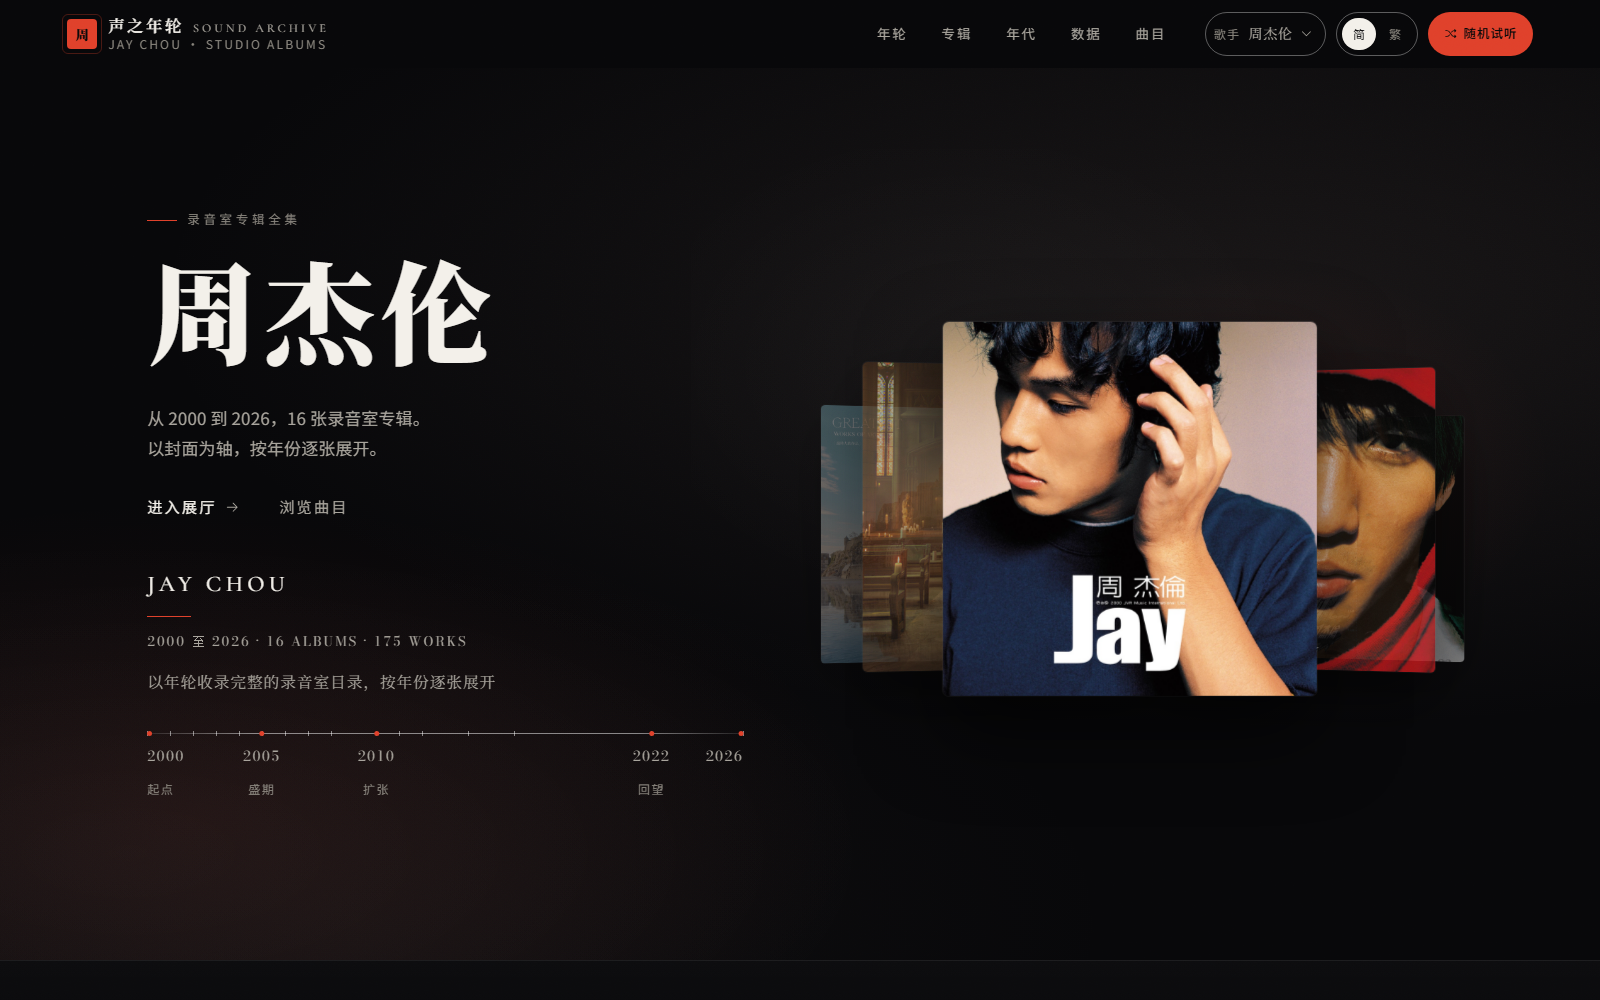
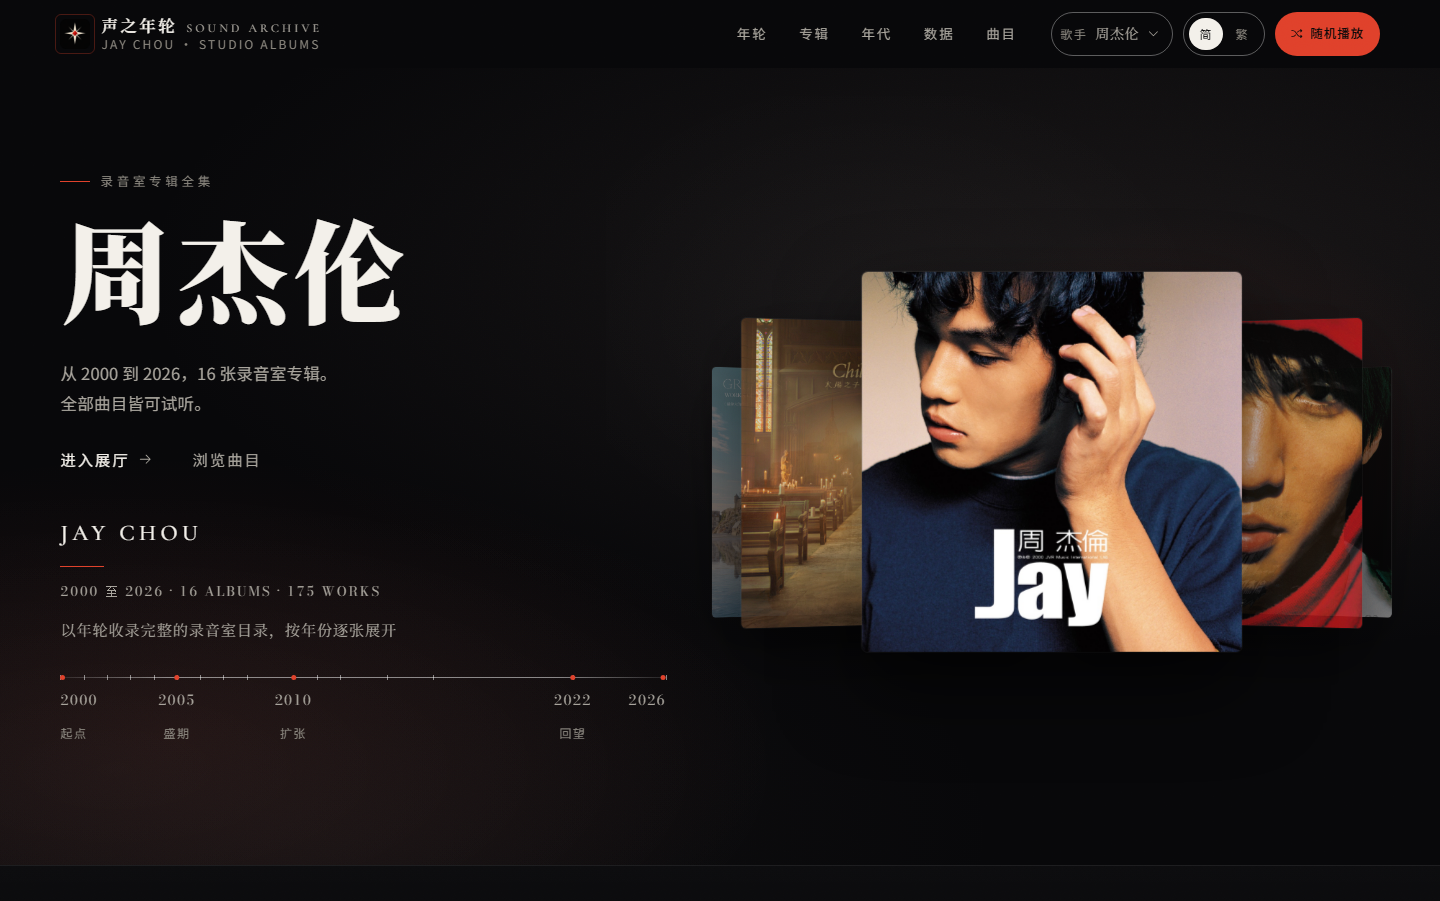
docs: refresh repository landing page
README 改为按仓门面重写：一句话定位 + CI / MIT / Node 徽章 + 三张真实截图
（入口、歌手页、年轮）+ 三步上手（git clone / npm run serve）+ 能力清单
（每条动词开头）+ 自备音源一节（含权利声明）+ 边界与资料 + 授权与贡献。

保留原有全部事实与口径，只调整层级与措辞：
- 保留「仓库不含音档与歌词全文」的显式声明，并上移到首屏摘要之后
- 保留 stage/ 不入库、全新 clone 只得基本舞台这条既有说明
- 新增歌手一节压缩为指针，脚本细节由 _data/artists/README.md 承担
- 去掉可见文案里的破折号，截图从 8 张收敛到 3 张，其余指向 screenshots/

截图重拍（当前工作树状态，1:1 CSS 像素，独立 Chromium，1440x901）：
- screenshots/18-landing.png：显示新的星芒站徽与八位歌手编目条
- screenshots/01-desktop-hero.png：显示歌手页主视觉与随机播放按钮

diff --git a/README.md b/README.md
@@ -1,122 +1,79 @@
 # 声之年轮
 
-一套歌手唱片陳列模板：以年輪與數據陳列一位歌手的完整錄音室目錄。
-現收錄**周杰倫**（16 張 / 175 首）、**陶喆**（9 張 / 131 首）、**Taylor Swift**（12 張 / 174 首）、**林志炫**（10 張 / 126 首）、**薛之謙**（13 張 / 131 首）、**林俊傑**、**方大同**、**鄧紫棋**。
+以年輪與數據陳列歌手的完整錄音室目錄：八位歌手、90 張專輯、1,104 首曲目，
+每位歌手有自己的強調色與母題，同一歌手的每張專輯抽屜又各有從封面派生的色彩。
+零執行期依賴、零建置、可離線：打開就選歌手，點進去是他的唱片年輪。
 
-每位歌手有自己的強調色與專屬母題，同一歌手的每張專輯抽屜也各有從封面派生的色彩。
-零依賴、零建置、可離線。打開即選歌手，點進去是他的唱片年輪。
+[![ci](https://github.com/cslkkl/discography-showcase/actions/workflows/ci.yml/badge.svg?branch=main)](https://github.com/cslkkl/discography-showcase/actions/workflows/ci.yml)
+[![License: MIT](https://img.shields.io/badge/license-MIT-2b6cb0)](LICENSE)
+![node](https://img.shields.io/badge/node-24.15.0-43853d)
 
-本倉託管於 GitHub（`discography-showcase`），push 後 CI 會自動跑一輪唯讀校驗。
+> **本倉庫不含任何音檔，也不含任何歌詞全文。** 要聽整首請自備合法取得的音源與歌詞，
+> 所以 `git clone` 之後直接就能聽整首是不成立的；沒有音源的曲目一律回退官方 30 秒試聽。
+> 邊界與資料來源見「[邊界與資料](#邊界與資料)」，放自己的音檔見「[想聽整首](#想聽整首自備音源)」。
 
----
+以下都是實際渲染截圖（1:1 CSS 像素、獨立 Chromium 拍攝），非設計稿。
+
+![入口：立體唱片架，八位歌手可逐一選中](screenshots/18-landing.png)
+
+![歌手頁主視覺：可左右翻的專輯輪播與年度軸線](screenshots/01-desktop-hero.png)
+
+![年輪：十六圈同心環依年份由內而外，圈寬對應曲目數](screenshots/08-year-rings.png)
+
+完整 19 張（含移動端、播放列、數據面、離線）見 [screenshots/](screenshots/)。
 
 ## 能力
 
-- **歌手選擇**：入口頁列出收錄的歌手，點進去是他的專屬陳列；新增歌手不需要改任何程式
-- **歌手人格**：每位歌手有自己的強調色與專屬母題（水墨 / 網點 / 稜鏡 / 漣漪 / 溝槽 / 星夜 / 弧線 / 霓虹），主視覺就是歌手本名
-- **專輯人格**：同一歌手的每張專輯，抽屜強調色都從那張封面派生，一張一個色彩世界
-- **十四個展示面**：年輪、展櫃、年代分期、封面牆、數據面、長短篇、合作者、代表曲等，每面用不同佈局語言
-- **年輪**：十六圈同心環依年份由內而外排列，圈寬對應曲目數，顏色取自該張封面平均色
-- **試聽**：一千一百零四首全部可播官方 30 秒片段，底部播放列支援進度拖動、上下首、連續播放；
-  放進自有音檔的曲目整首播放，播放列會如實標示當前是「本機音檔」還是「官方 30 秒試聽」
-- **繁簡一鍵切換**：入口與歌手頁同步，全站文案與搜尋索引同時切換，選擇記憶在 localStorage
-- **檢索**：一千一百零四首曲目總表，繁簡互通搜尋
-- **全屏歌詞**：自有音檔配上同目錄 `.lrc` 即可開全屏歌詞舞台，逐行呈現、逐字掃光，
+- **選歌手**：入口頁是一台立體唱片架，點兩側封面、點空白處或拖曳切換，點中央那張進入該歌手；
+  新增歌手不需要改任何程式
+- **認出歌手的人格**：強調色與專屬母題（水墨 / 網點 / 稜鏡 / 漣漪 / 溝槽 / 星夜 / 弧線 / 霓虹），
+  主視覺就是歌手本名
+- **換一種陳列語言**：十四個展示面（年輪、展櫃、年代分期、封面牆、數據面、長短篇、合作者、
+  代表曲等），每面用不同佈局
+- **讀年輪**：十六圈同心環依年份由內而外，圈寬對應曲目數，顏色取自該張封面平均色
+- **聽**：一千一百零四首全部可播官方 30 秒片段；底部播放列支援進度拖動、上下首、
+  順序與隨機播放（隨機範圍是當前歌手的全部專輯，不跨歌手）。
+  放進自有音檔的曲目整首播放，播放列如實標示「本機音檔」或「官方 30 秒試聽」
+- **看全屏歌詞**：自有音檔配同目錄 `.lrc` 即可開歌詞舞台，逐行呈現、逐字掃光，
   支援 `Esc` 退出與減少動效降級。
   **完整舞台的視覺層需要 `stage/`，而整個 `stage/` 目前不入庫**（`git ls-tree HEAD -- stage/`
   回 0 個檔案：它含上游 Folia 的逐字複本與 Vite 建置產物，體積大且可重建）。
-  所以**全新 clone 得到的是基本舞台**：歌詞照常顯示、逐行呈現，但沒有完整視效——
-  這是既有設計，不是缺損。要完整舞台得另外取得 `stage/` 源目錄（上游基準見 Folia 0.7.18），
-  依它自己的 `stage/README.md` 建置後把產物放到 `stage/dist/`，再重跑 `npm run stamp`。
-- **全屏專輯抽屜**：封面、發行資訊、編輯文字、完整曲目，支援前後翻專輯
-- **歌曲檔案**：點歌名開一份以「一首歌」為單位的檔案——專輯／年份／時長、唱片視覺、
-  創作資訊（曲序、發行、出版、長度、音源、歌詞有無、合作）與**署名**
-  （作詞／作曲／編曲／製作人；另有一小部分曲目帶混音、母帶、吉他等**其他署名**，
-  實測 1322 筆裡 162 筆），再往下是時代背景；
-  署名取自歌詞檔開頭那幾行的製作人員行（實測 1104 首裡 816 首有），沒有就留空
-- **無障礙**：全鍵盤可達、焦點環可見、抽屜焦點鎖定、減少動效降級、觸控目標 ≥ 44px
+  所以**全新 clone 得到的是基本舞台**：歌詞照常顯示、逐行呈現，但沒有完整視效，
+  這是既有設計不是缺損。要完整舞台得另外取得 `stage/` 源目錄（上游基準 Folia 0.7.18），
+  依目錄自帶的建置說明產出後把產物放到 `stage/dist/`，再重跑 `npm run stamp`
+- **翻專輯抽屜**：封面、發行資訊、編輯文字、完整曲目，支援前後翻專輯
+- **讀歌曲檔案**：點歌名開一份以「一首歌」為單位的檔案，含專輯／年份／時長、唱片視覺、
+  創作資訊與**署名**（作詞／作曲／編曲／製作人；少數曲目另有混音、母帶、吉他等其他署名，
+  實測 1322 筆裡 162 筆）。署名取自歌詞檔開頭的製作人員行（實測 1104 首裡 816 首有），
+  沒有就留空
+- **切繁簡**：入口與歌手頁同步，全站文案與檢索索引同時切換，選擇記憶在 localStorage
+- **檢索**：1,104 首曲目總表，繁簡互通搜尋
+- **鍵盤可用**：全鍵盤可達、焦點環可見、抽屜焦點鎖定、觸控目標 ≥ 44px、減少動效降級
 - **離線可用**：封面、字體、腳本全部本地託管，斷網仍完整呈現
 
-## 预览
-
-以下为实际渲染截图，非设计稿。
-
-**入口 · 选歌手**
-
-![入口：立体唱片架](screenshots/18-landing.png)
-
-**歌手页主视觉**
-
-![歌手页主视觉](screenshots/01-desktop-hero.png)
-
-**年轮 · 全站核心视觉**
-
-![年轮](screenshots/08-year-rings.png)
-
-**试听播放**
-
-![试听播放列](screenshots/15-player.png)
-
-**专辑详情与逐行播放**
-
-![专辑详情与播放](screenshots/16-sheet-player.png)
-
-**数据面**
-
-![数据面](screenshots/11-data.png)
-
-**移动端 · 入口**
-
-![移动端入口](screenshots/19-mobile-landing.png)
-
-**移动端 · 歌手页**
-
-![移动端主视觉](screenshots/03-mobile-hero.png)
-
-完整 19 张见 [screenshots/](screenshots/)。
-
-## 快速开始
-
-```
-打開 index.html → 選一位歌手
-```
-
-本地伺服器（可選，供手機同網段訪問或自動化驗證）：
+## 快速上手
 
 ```powershell
-node _data/serve.mjs 8099
-# 開啟 http://127.0.0.1:8099
+git clone https://github.com/cslkkl/discography-showcase.git
+cd discography-showcase
+npm run serve          # 開啟 http://127.0.0.1:8099
 ```
 
-## 邊界與資料
+選一位歌手即可瀏覽；也可以直接雙擊 `index.html`（`file://` 下播放正常，
+但歌詞讀不出來，因為 `XMLHttpRequest` 讀 sidecar 被 CORS 擋掉）。
 
-- **倉庫不含任何完整錄音**，也不含來源不明的音訊
-- 官方音源為 **Apple 隨目錄提供的 30 秒片段**，與中繼資料同一次請求返回
-- 自有音檔只留在使用者本機，不進版本庫；播放時本機檔案優先，官方片段留作後備
-- 專輯名、發行日、曲目、時長取自 **Apple Music / iTunes 公開目錄**（TW 店）
-- Taylor's Version 重錄版非新專輯，不收錄；各歌手的精選與現場專輯不收錄（介紹中如實說明的混合型專輯除外）
-- 簡介與年代分期文字為本站撰寫，非官方文案
-- 封面圖像與錄音版權歸各自權利人所有；本站為個人非商業收藏陳列
-- 字體為開源字體（Noto Serif SC / Noto Sans SC / Bodoni Moda，SIL OFL），已本地託管
-- 頁面不含追蹤腳本、不含 Cookie、不發送任何資料到第三方；只有播放時才會連到 Apple 的 CDN
+## 想聽整首（自備音源）
 
-想放自己的音檔見下方。
-
-## 想聽整首
-
-站內每首的**官方音源**只放 **Apple 官方 30 秒試聽**，這是刻意保留的邊界：倉庫不含任何完整錄音。
-要聽整首，走官方入口——會員權益無法接入第三方站，
-非官方介面需服務端持有個人憑證，既有違服務條款又會暴露帳號。
+站內每首的**官方音源**只放 Apple 官方 30 秒試聽，這是刻意保留的邊界：倉庫不含任何完整錄音。
+會員權益無法接入第三方站，非官方介面需服務端持有個人憑證，既違服務條款又會暴露帳號；
 評估過程見 [.agents/notes/網易雲接入可行性.md](.agents/notes/網易雲接入可行性.md)。
 
-**若你自己擁有音檔**（自有 CD 抓軌、購買的 DRM-free 數位專輯），
-把它們放進 `assets/audio/<專輯id>/`，跑一次工具即可整首、離線播放。
+**若你自己擁有音檔**（自有 CD 抓軌、購買的 DRM-free 數位專輯），把它們放進
+`assets/audio/<專輯id>/`，跑一次工具即可整首、離線播放。
 
 > **本倉庫不含任何音檔，也不含任何歌詞全文。**
 > 要聽整首，請**自備合法取得的音源與歌詞**（自有 CD 抓軌、購買的 DRM-free 數位專輯、
 > 自購的電子歌詞）。本專案不分發、不代抓、不提供下載來源。
-> 這也意味著：**`git clone` 之後直接就能聽整首是不成立的**，
-> 必須先自備音源，才有整首播放與歌詞。
 
 ### 目錄與命名規則
 
@@ -128,13 +85,13 @@ assets/audio/
 ```
 
 - **專輯 id**：用 `node _data/local-audio.mjs --list-albums` 查（左欄就是 id，例如 `yeh2003`），
-  或到 `_data/artists/<歌手id>/` 的資料夾與 `js/data.js` 裡對。
+  或到 `_data/artists/<歌手id>/` 的資料夾與 `js/data.js` 裡對
 - **音檔**：`assets/audio/<專輯id>/` 下任意檔名，支援
   `.flac` `.mp3` `.m4a` `.aac` `.opus` `.ogg` `.wav`（大小寫不敏感）。
   對應曲目有兩條路徑：① 檔名以**序號開頭**（`01`、`1 -`、`03.`、`[05]`）就取該序號；
-  ② 否則把檔名正規化（去空白標點、全形轉半形）後與該專輯的曲名比對（繁體原名與簡體轉換都試）。
-- **歌詞**：`.lrc` 放**同一個目錄**，與音檔**同主檔名**最穩；找不到同名時會退回「同序號」的 `.lrc`。
-  沒有 `.lrc` 就只有音檔、沒有歌詞。
+  ② 否則把檔名正規化（去空白標點、全形轉半形）後與該專輯曲名比對（繁體原名與簡體轉換都試）
+- **歌詞**：`.lrc` 放**同一個目錄**，與音檔**同主檔名**最穩；找不到同名時退回「同序號」的 `.lrc`。
+  沒有 `.lrc` 就只有音檔、沒有歌詞
 - **範例**（周杰倫《葉惠美》第 1 首〈以父之名〉，專輯 id `yeh2003`）：
 
 ```
@@ -155,23 +112,23 @@ npm run listen          # = node _data/local-audio.mjs --write && node _data/bui
 npm run serve           # http://127.0.0.1:8099，進歌手頁按播放
 ```
 
-`npm run listen` 會逐張專輯印出「對上幾首 / 共幾首」，並列出**缺哪幾首**、
-**哪些檔對不上**、**哪兩個檔撞同一個序號**、以及 FLAC 檔頭時長與目錄資料相差超過 3 秒的曲目
+`npm run listen` 會逐張專輯印出「對上幾首 / 共幾首」，並列出**缺哪幾首**、**哪些檔對不上**、
+**哪兩個檔撞同一個序號**、以及 FLAC 檔頭時長與目錄資料相差超過 3 秒的曲目
 （用來抓「序號寫錯導致抓錯歌」）。檔名很亂時可先跑
 `node _data/local-audio.mjs --write --rename`，它只把序號補正成兩位數、保留後面的描述文字。
 
 ### 對不上會怎樣（不會壞，只會降級）
 
-- 某首沒有本機音檔 → 該首**自動回退到 Apple 官方 30 秒試聽**，按鈕文案由「整首播放」變成
-  「試聽 30 秒」，播放列標「官方 30 秒試聽」。
-- 某首有音檔但沒有 `.lrc` → 能整首播放，但**沒有歌詞舞台可用**（入口會就地說明「這首沒有本機歌詞」）。
-- 本機檔案損壞或編碼不支援 → 頁面提示「本機檔案無法載入，已改用官方試聽」，播放不中斷。
-- 目錄名不是已知專輯 id → 整個目錄跳過並在報告裡列出，不會靜默忽略。
+- 某首沒有本機音檔：該首**自動回退到 Apple 官方 30 秒試聽**，按鈕由「整首播放」變成
+  「試聽 30 秒」，播放列標「官方 30 秒試聽」
+- 某首有音檔但沒有 `.lrc`：能整首播放，但**沒有歌詞舞台**（入口就地說明「這首沒有本機歌詞」）
+- 本機檔案損壞或編碼不支援：頁面提示「本機檔案無法載入，已改用官方試聽」，播放不中斷
+- 目錄名不是已知專輯 id：整個目錄跳過並在報告裡列出，不會靜默忽略
 
 ### 這些檔案永遠不進版本庫
 
 `assets/audio/`、`_data/local-audio.json`、`_data/local-lyrics.json` 都在
-[.gitignore](.gitignore) 裡（分別在第 31–33 行），所以音檔與歌詞全文只留在你本機。
+[.gitignore](.gitignore) 裡（第 31 至 33 行），所以音檔與歌詞全文只留在你本機。
 換一台機器或部署到遠端時，播放會自動回退到官方試聽。
 
 ### 目前規模（自備音源後的實測口徑）
@@ -186,36 +143,26 @@ npm run serve           # http://127.0.0.1:8099，進歌手頁按播放
 最後 6 首的已知缺口：陶喆 5 首（〈不一樣〉〈今天晚間新聞〉〈桂冠英雄〉
 〈沙灘 (Acappella Version)〉〈沙灘 (Guitar Version)〉）、Taylor Swift 8 秒口白 outro 1 首。
 
+## 邊界與資料
+
+- **倉庫不含任何完整錄音**，也不含來源不明的音訊
+- 官方音源為 **Apple 隨目錄提供的 30 秒片段**，與中繼資料同一次請求返回
+- 自有音檔只留在使用者本機，不進版本庫；播放時本機檔案優先，官方片段留作後備
+- 專輯名、發行日、曲目、時長取自 **Apple Music / iTunes 公開目錄**（TW 店）
+- Taylor's Version 重錄版非新專輯，不收錄；各歌手的精選與現場專輯不收錄
+  （介紹中如實說明的混合型專輯除外）
+- 簡介與年代分期文字為本站撰寫，非官方文案
+- 封面圖像與錄音版權歸各自權利人所有；本站為個人非商業收藏陳列
+- 字體為開源字體（Noto Serif SC / Noto Sans SC / Bodoni Moda，SIL OFL），已本地託管
+- 頁面不含追蹤腳本、不含 Cookie、不發送任何資料到第三方；只有播放時才連到 Apple 的 CDN
+
 ## 想加一位歌手
 
-收錄一位新歌手不需要改任何程式，只要新增一個資料夾：
-
-```
-_data/artists/<歌手id>/
-├── albums-raw.json   事實：發行日、曲目、時長、封面鍵、試聽網址
-├── colors.json       事實：各封面平均色（由腳本生成）
-├── credits.json      事實：逐曲署名（有歌詞檔時由腳本抽取，可缺）
-└── meta.mjs          唯一手寫層：身份、每張專輯的介紹、代表曲、年代分期、主題、逐曲文案
-```
-
-抓取與生成都有現成腳本，完整步驟見
-[_data/artists/README.md](_data/artists/README.md)：
-
-```powershell
-node _data/fetch-artist.mjs --list  --itunes-id <歌手id> --country tw
-node _data/fetch-artist.mjs --fetch --itunes-id <歌手id> --artist <歌手id> --keys "<collectionId=鍵, ...>"
-powershell -File _data/make-responsive-covers.ps1
-powershell -File _data/extract-colors.ps1 -Artist <歌手id>
-# 有自有音檔與歌詞時，落盤後再抽署名：
-node _data/place-media.mjs --artist <歌手id> --from <來源目錄> --write
-node _data/local-audio.mjs --write
-node _data/extract-credits.mjs --artist <歌手id> --write
-# 然後手寫 meta.mjs，最後：
-npm run build
-```
-
-建置後入口頁會多出一行，歌手頁的主題（強調色、印章、題名、母題）全由
-`meta.mjs` 的 `theme` 驅動；`build.mjs` 不必改動。
+收錄新歌手只要新增一個資料夾 `_data/artists/<歌手id>/`（事實檔 + 一份手寫 `meta.mjs`），
+再跑 `npm run build`，不必改 `build.mjs`。資料夾形狀與抓取、配色、封面、署名四支腳本的
+完整步驟見 [_data/artists/README.md](_data/artists/README.md)；
+建置後入口頁會多出一行，歌手頁的主題（強調色、印章、題名、母題）全由 `meta.mjs` 的
+`theme` 驅動。
 
 ## 授權
 
@@ -235,5 +182,4 @@ npm run build
 
 個人專案，不接受外部貢獻。若你要照著改一份自己的，請先讀
 [AGENTS.md](AGENTS.md) 的全局規則，那裡列了不可破壞的約束。
-
 維護者文件地圖見 [AGENTS.md](AGENTS.md)。
